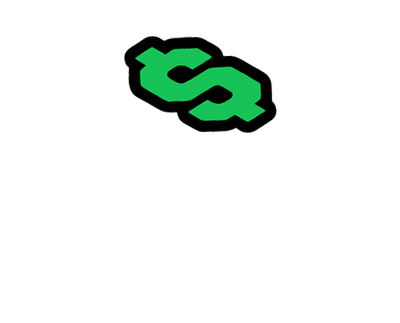
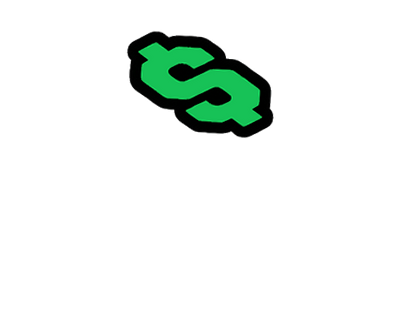
Boot: the $ turned 6° clockwise to lie on the plate's grid (25.6°), the stack nudged 2px to the screen's true center

Changed region(s): [[0.3, 0.0929, 0.69, 0.4334], [0.51, 0.2477, 0.57, 0.2786], [0.57, 0.2786, 0.6, 0.3096]]

diff --git a/src/00-boot.html b/src/00-boot.html
@@ -1,8 +1,8 @@
 <meta name="theme-color" content="#000000">
 <meta name="apple-mobile-web-app-capable" content="yes">
 <meta name="apple-mobile-web-app-status-bar-style" content="black">
-<style>html,body{background:#000;margin:0}#boot{position:fixed;inset:0;z-index:9999;background:#000;display:flex;align-items:center;justify-content:center;transition:opacity .35s}#boot.boot--out{opacity:0;pointer-events:none}.bstack{position:relative;width:200px;height:227px}.bstack img{position:absolute;left:0;width:200px;height:auto;opacity:0;animation:bdrop .55s cubic-bezier(.22,1,.36,1) forwards}.bstack .p1{top:65.5px;animation-delay:.2s}.bstack .p2{top:33.7px;animation-delay:.85s}.bstack .p3{top:0;animation-delay:1.5s}.bstack .bd{top:0;animation:bpop .6s cubic-bezier(.34,1.56,.64,1) 2.2s forwards}@keyframes bdrop{from{opacity:0;transform:translateY(-18px)}to{opacity:1;transform:none}}@keyframes bpop{from{opacity:0;transform:scale(.55)}to{opacity:1;transform:none}}</style>
-<div id="boot" aria-hidden="true"><div class="bstack"><img class="p1" src="ico/boot-plate.png" alt=""><img class="p2" src="ico/boot-plate.png" alt=""><img class="p3" src="ico/boot-plate.png" alt=""><img class="bd" src="ico/boot-dollar.png" alt=""></div></div>
+<style>html,body{background:#000;margin:0}#boot{position:fixed;inset:0;z-index:9999;background:#000;display:flex;align-items:center;justify-content:center;transition:opacity .35s}#boot.boot--out{opacity:0;pointer-events:none}.bstack{position:relative;top:2px;width:200px;height:227px}.bstack img{position:absolute;left:0;width:200px;height:auto;opacity:0;animation:bdrop .55s cubic-bezier(.22,1,.36,1) forwards}.bstack .p1{top:65.5px;animation-delay:.2s}.bstack .p2{top:33.7px;animation-delay:.85s}.bstack .p3{top:0;animation-delay:1.5s}.bstack .bd{top:0;animation:bpop .6s cubic-bezier(.34,1.56,.64,1) 2.2s forwards}@keyframes bdrop{from{opacity:0;transform:translateY(-18px)}to{opacity:1;transform:none}}@keyframes bpop{from{opacity:0;transform:scale(.55)}to{opacity:1;transform:none}}</style>
+<div id="boot" aria-hidden="true"><div class="bstack"><img class="p1" src="ico/boot-plate.png" alt=""><img class="p2" src="ico/boot-plate.png" alt=""><img class="p3" src="ico/boot-plate.png" alt=""><img class="bd" src="ico/boot-dollar.png?v=2" alt=""></div></div>
 <script>
 /* the stack on black from the very first paint, built plate 1, 2, 3 and
    then the $ (Jose, Sep 29, 2026), until the board is
